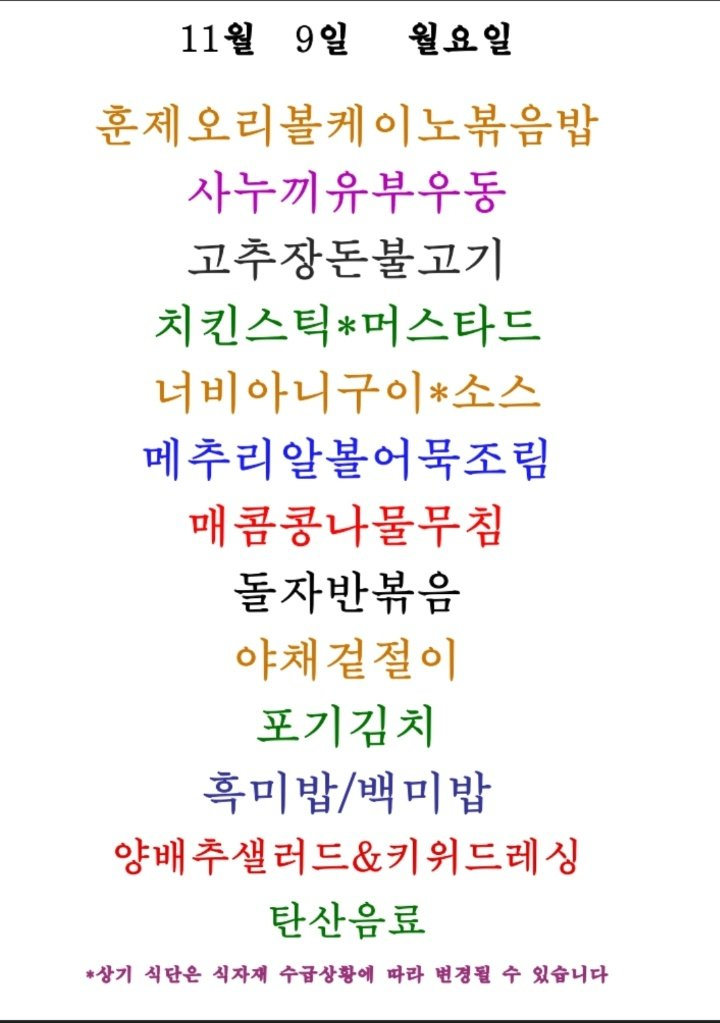
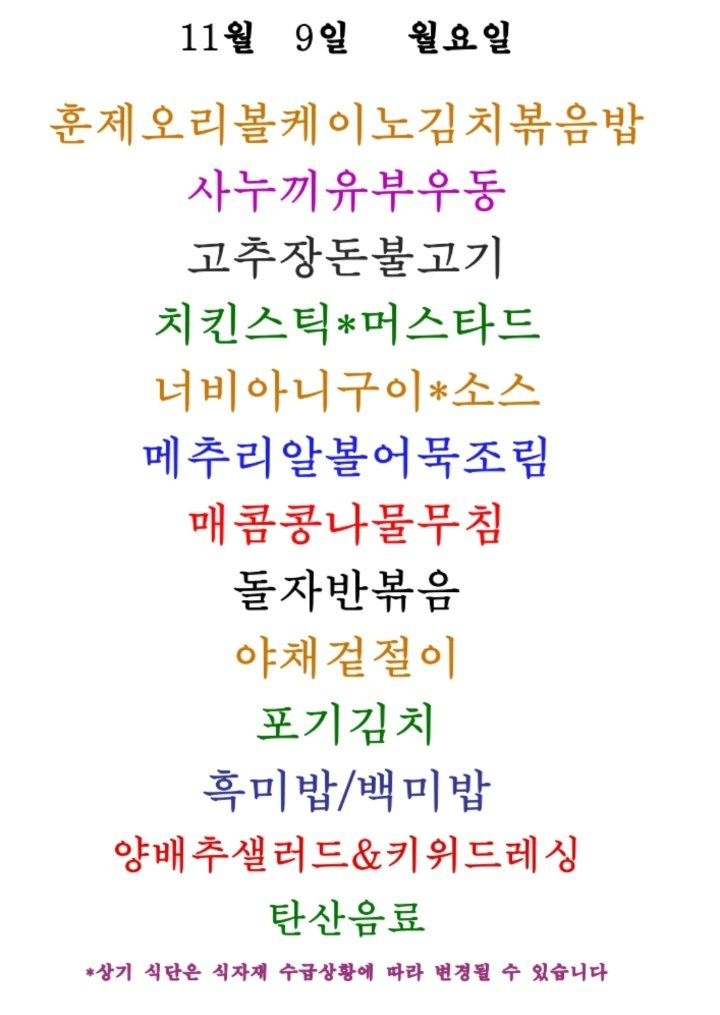
Update menu board assets

diff --git a/guro-menu/index.html b/guro-menu/index.html
@@ -32,7 +32,7 @@
   </header>
   <section class="meta">
     <div><small>기준 날짜</small><strong>2026년 11월 9일 월요일</strong></div>
-    <div><small>최종 갱신</small><strong>2026-11-09 10:48:28</strong></div>
+    <div><small>최종 갱신</small><strong>2026-11-09 11:03:42</strong></div>
     <div><small>등록 식당</small><strong>5개</strong></div>
   </section>
   <div class="notice">공개 카카오 채널의 메뉴 이미지를 자동 수집하고 OCR로 정리합니다. 텍스트에 오타가 있을 수 있으니 식단 이미지를 함께 확인해 주세요.</div>
@@ -48,7 +48,7 @@
         </div>
         <img class="menu-image" src="./images/hanshin-it.png" alt="한신IT타워 구내식당 식단 이미지" loading="lazy">
         
-        <ul><li>훈제오리볼케이노볶음밥</li><li>사누끼유부우동</li><li>고추장돈불고기</li><li>치킨스턱*어스타드</li><li>녀비아니구이*소스</li><li>메추리알볼어묵조림</li><li>매콤콩나물무침</li><li>돌자반볶음</li><li>야채겉절이</li><li>포기김치</li><li>흑미밥/백미밥</li><li>양배추샐러드&amp;키위드레싱</li><li>탄산음료</li></ul>
+        <ul><li>훈제오리볼케이노김치볶음밥</li><li>사누끼유부우동</li><li>고추장돈불고기</li><li>치킨스틱*머스타드</li><li>너비아니구이*소스</li><li>메추리알볼어묵조림</li><li>매콤콩나물무침</li><li>돌자반볶음</li><li>야채겉절이</li><li>포기김치</li><li>흑미밥/백미밥</li><li>양배추샐러드&amp;키위드레싱</li><li>탄산음료</li></ul>
       </article>
 
       <article class="restaurant-card">

diff --git a/menu-today/index.html b/menu-today/index.html
@@ -209,7 +209,7 @@
 
     <section class="meta-bar">
       <div class="meta-card"><div class="meta-label">기준 날짜</div><div class="meta-value">2026년 11월 9일 월요일</div></div>
-      <div class="meta-card"><div class="meta-label">최종 가져온 시간</div><div class="meta-value">2026-11-09 10:48:16</div></div>
+      <div class="meta-card"><div class="meta-label">최종 가져온 시간</div><div class="meta-value">2026-11-09 11:03:29</div></div>
       <div class="meta-card"><div class="meta-label">확인 완료</div><div class="meta-value">9개 식당</div></div>
       <div class="meta-card"><div class="meta-label">준비중</div><div class="meta-value">3개 채널</div></div>
     </section>
